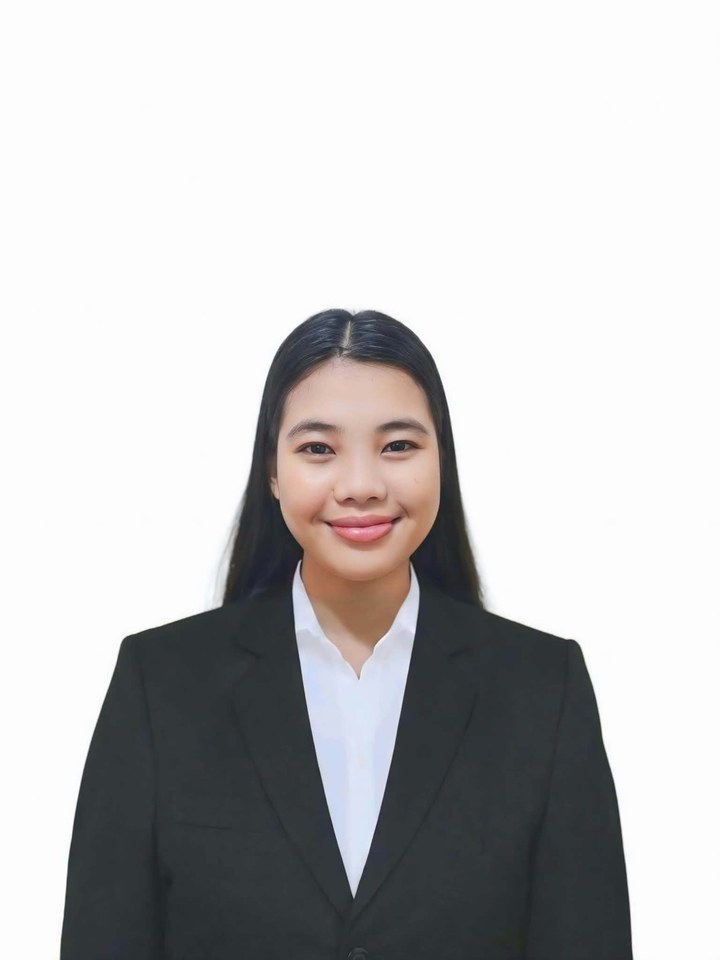
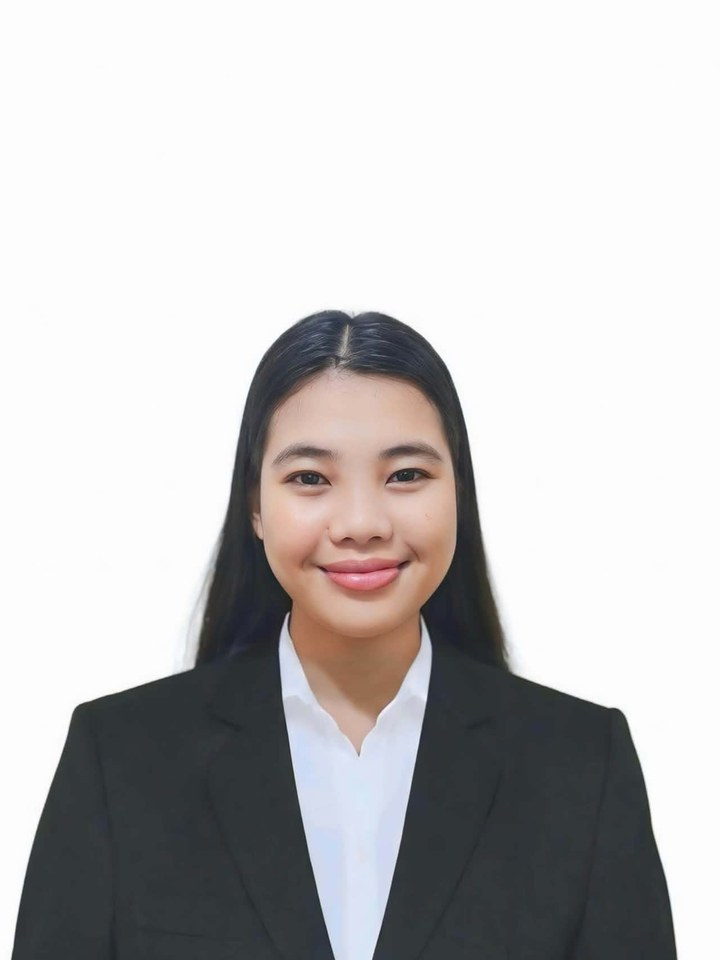
Use updated home page profile photo

Changed region(s): [[0.1528, 0.3125, 0.9472, 1.0], [0.0, 0.7188, 0.1528, 1.0]]

diff --git a/index.html b/index.html
@@ -145,7 +145,7 @@
         <div class="hero__photo reveal reveal--zoom" style="--delay: 160ms">
           <span class="photo-backdrop" aria-hidden="true"></span>
           <div class="photo-frame">
-            <img id="profilePhoto" src="assets/images/profile.jpg?v=2026-11-09" alt="Photo of Cathyrine R. Mendoza" width="720" height="960">
+            <img id="profilePhoto" src="assets/images/profile.jpg?v=2026-11-09b" alt="Photo of Cathyrine R. Mendoza" width="720" height="960">
           </div>
           <span class="photo-sparkle photo-sparkle--1" aria-hidden="true">✦</span>
           <span class="photo-sparkle photo-sparkle--2" aria-hidden="true">✧</span>

diff --git a/js/data.js b/js/data.js
@@ -24,7 +24,7 @@ const PROFILE = {
 
   // Your photo. Put your picture in assets/images/ and change the file name here.
   // Example: "assets/images/me.jpg"
-  photo: "assets/images/profile.jpg?v=2026-11-09",
+  photo: "assets/images/profile.jpg?v=2026-11-09b",
 
   // The typing animation in the hero cycles through these (keep 3 or more)
   roles: [
